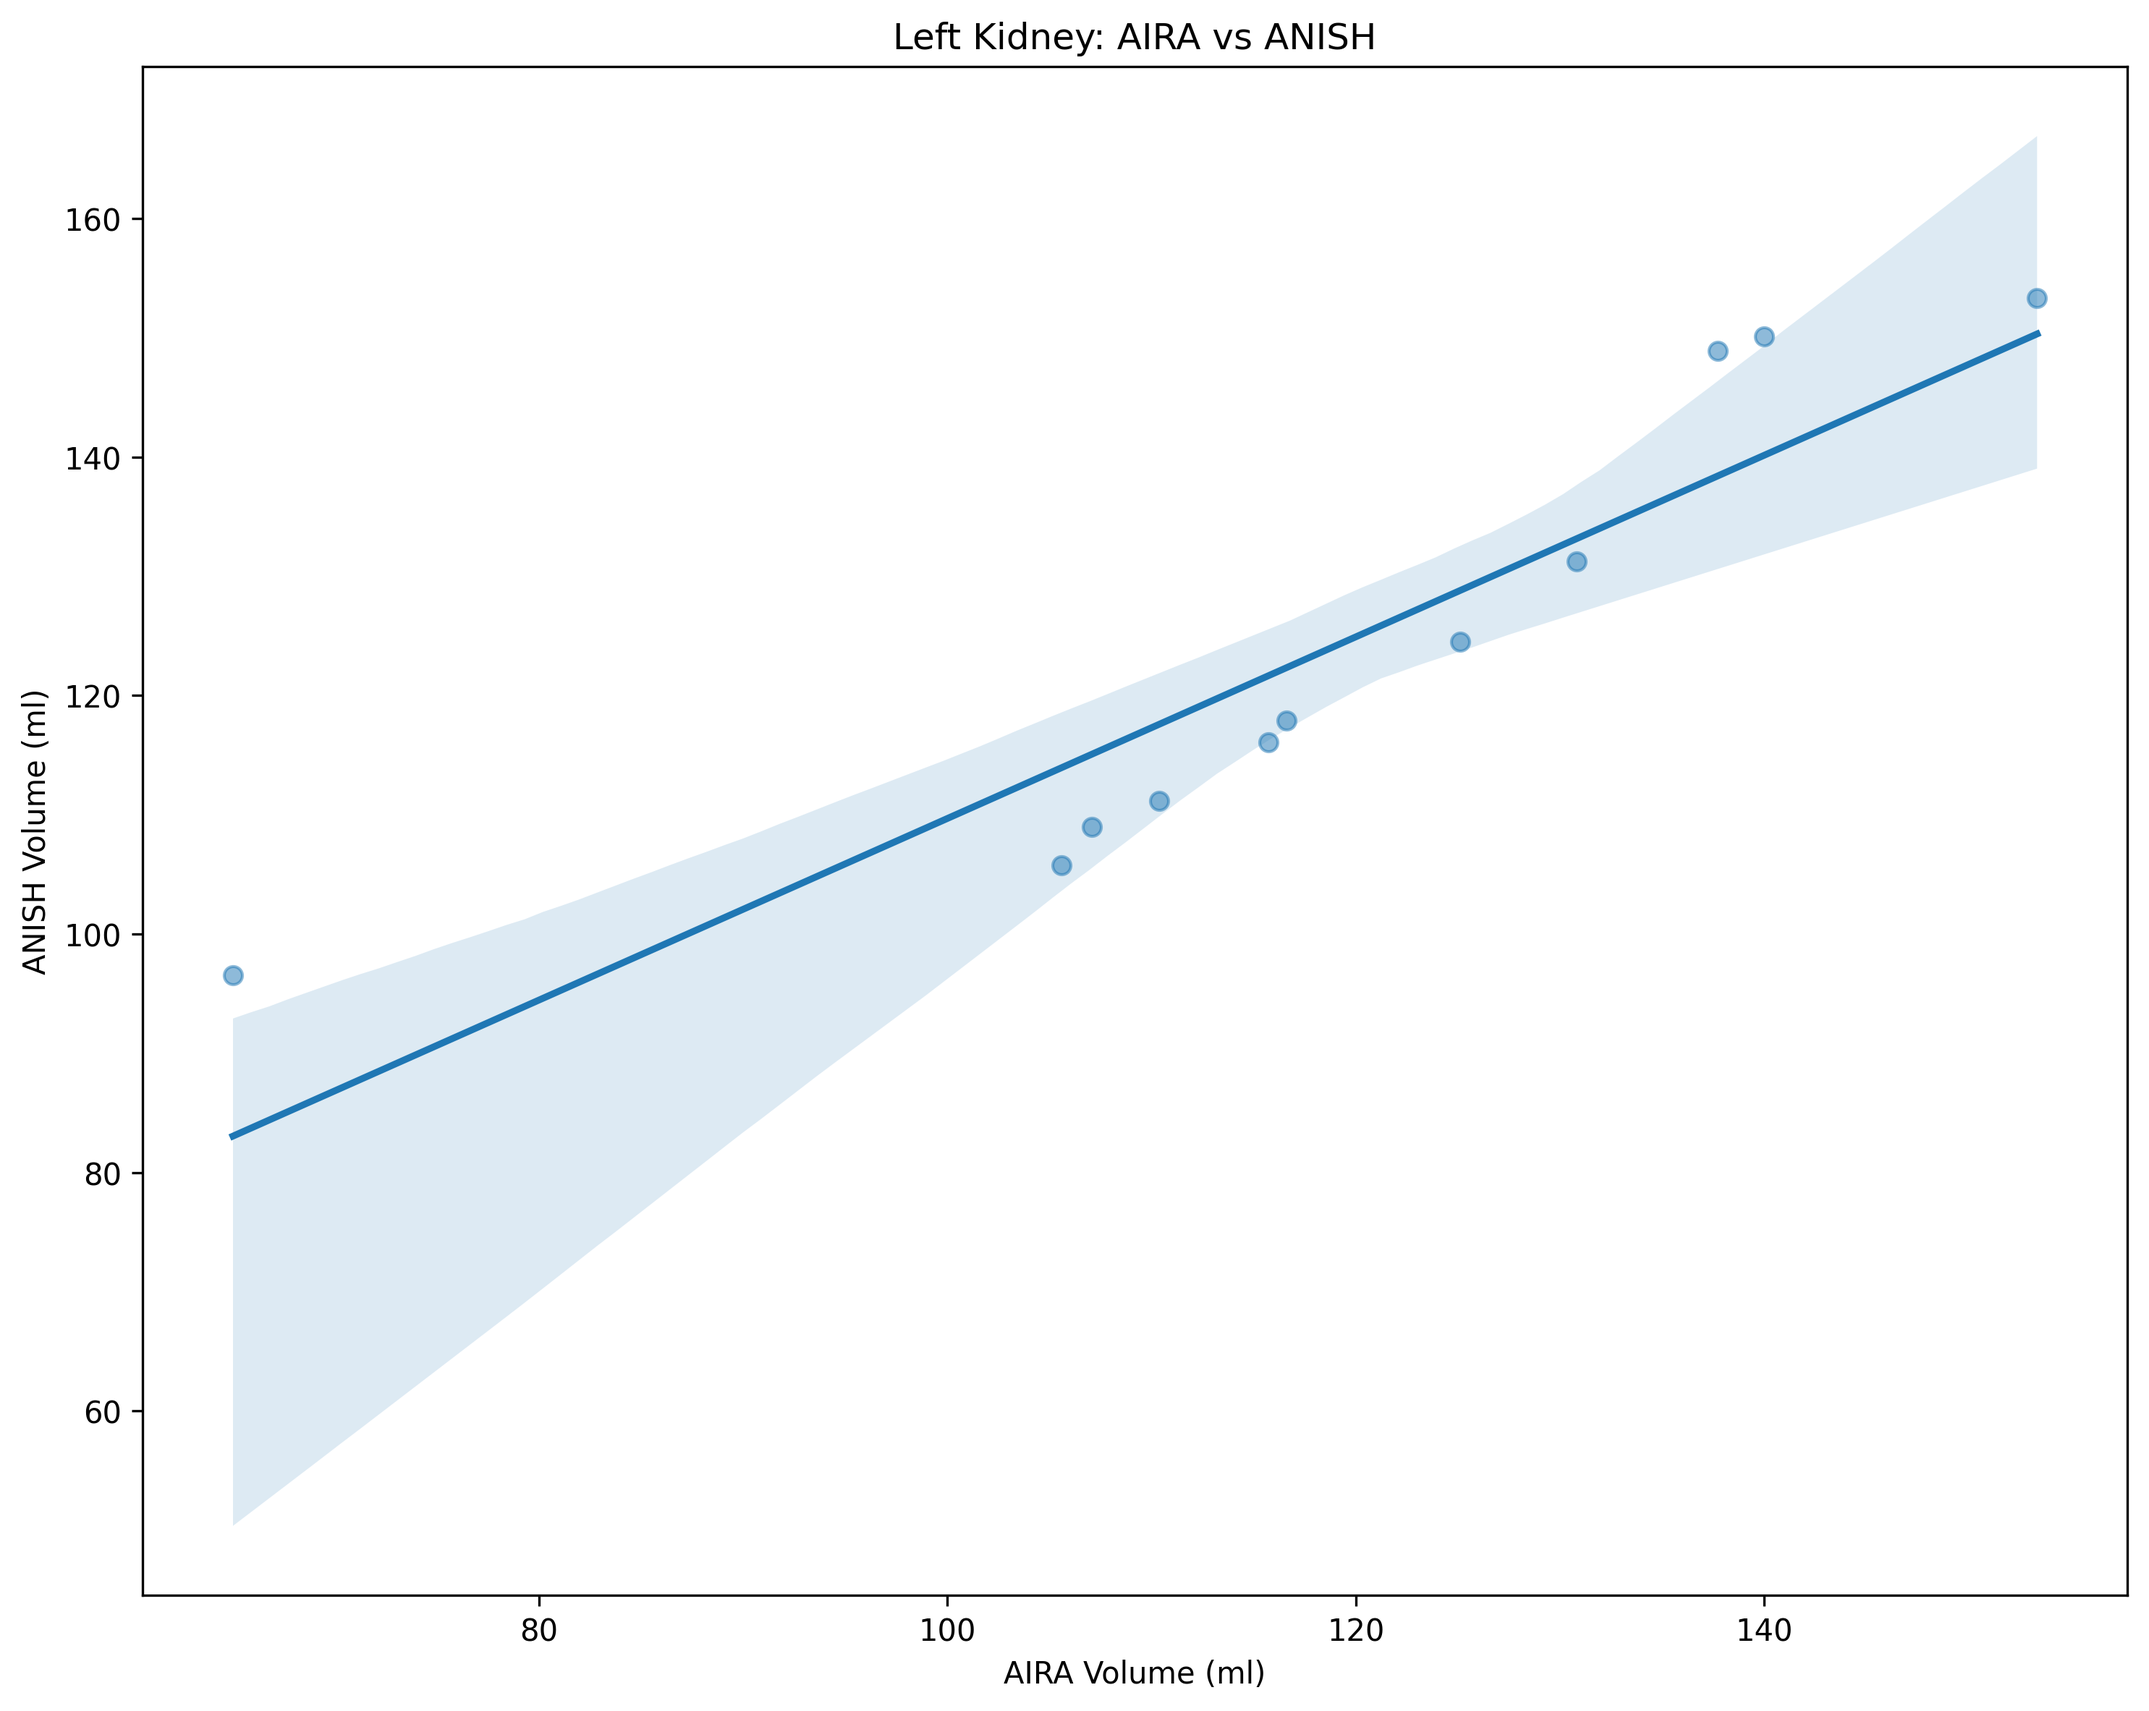
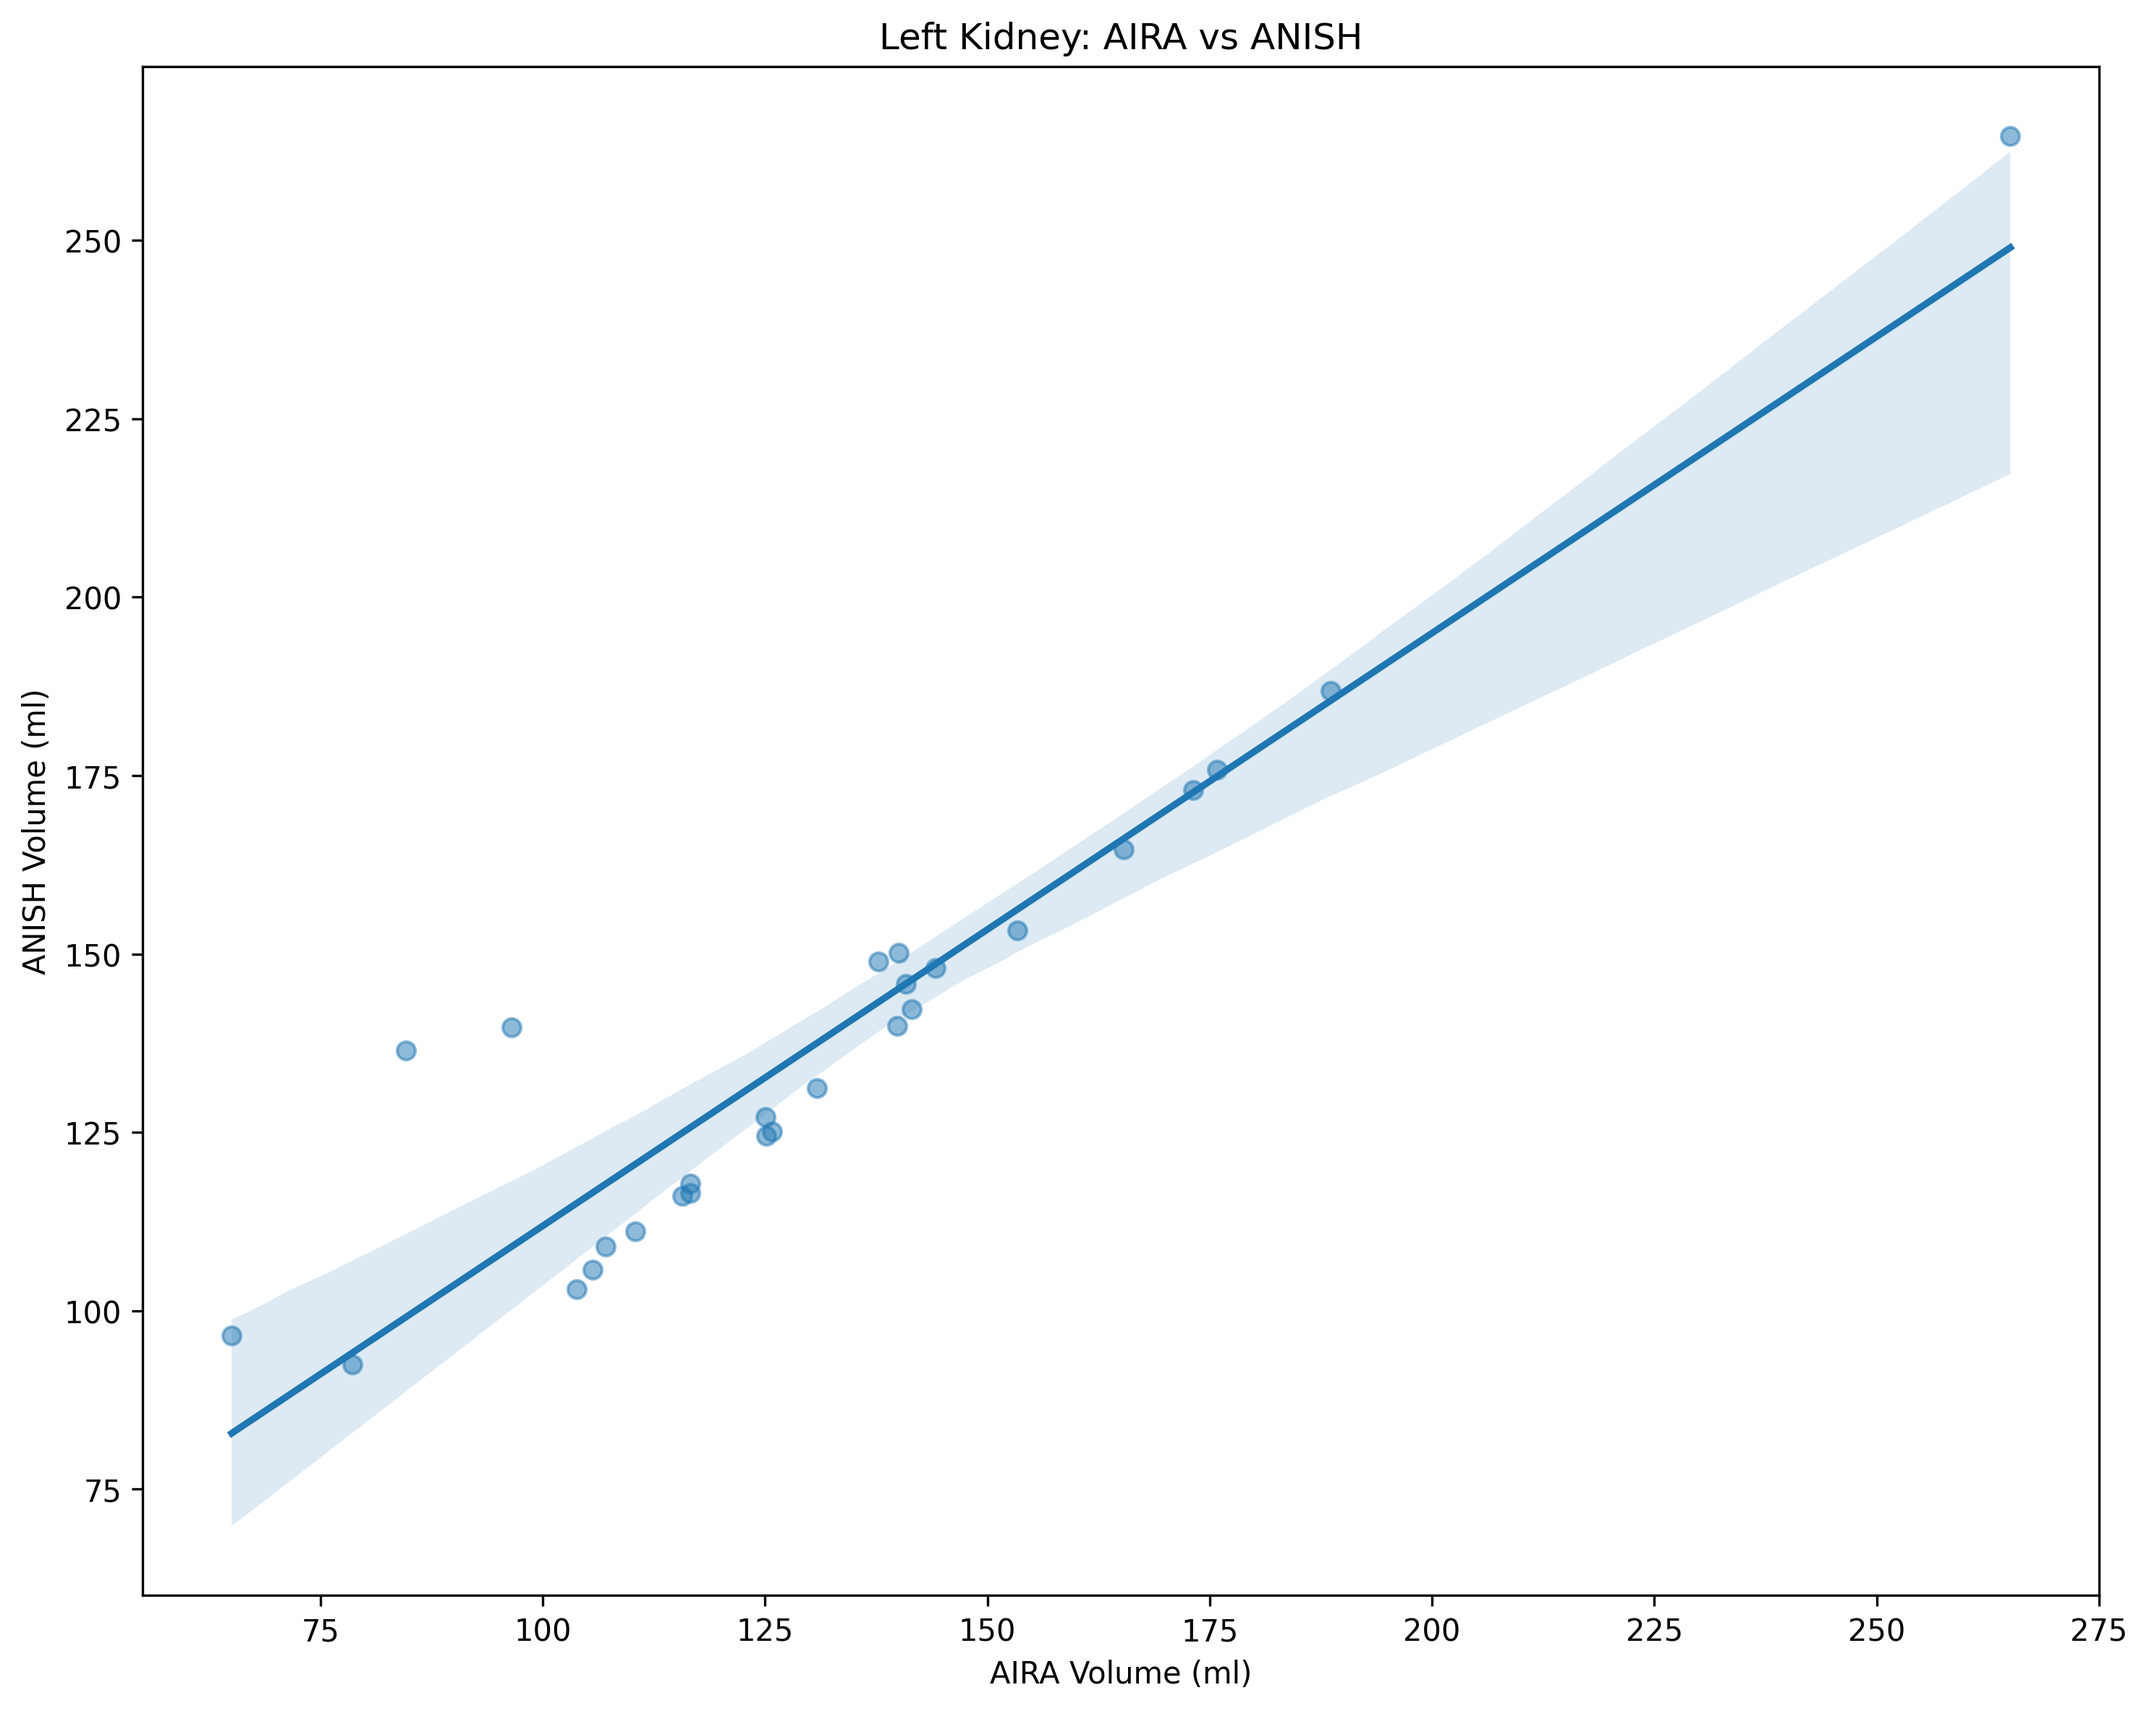
AIRA-FDA-observer comparison

diff --git a/Cursor/Folder_Manipulation/observer_comparison.py b/Cursor/Folder_Manipulation/observer_comparison.py
@@ -620,7 +620,7 @@ def create_combined_kidney_plot(df, output_folder):
 def main():
     try:
         # File path and output folder
-        file_path = r"D:/__SHARED__/Chippy/___FDA___/ARAMIS BATCH 1 - FDA_2.5mm_test.csv"
+        file_path = r"D:/__SHARED__/Chippy/___FDA___/ARAMIS BATCH 1 - FDA_2.5mm_final.csv"
         output_folder = "observer_analysis_results"
         os.makedirs(output_folder, exist_ok=True)
         
